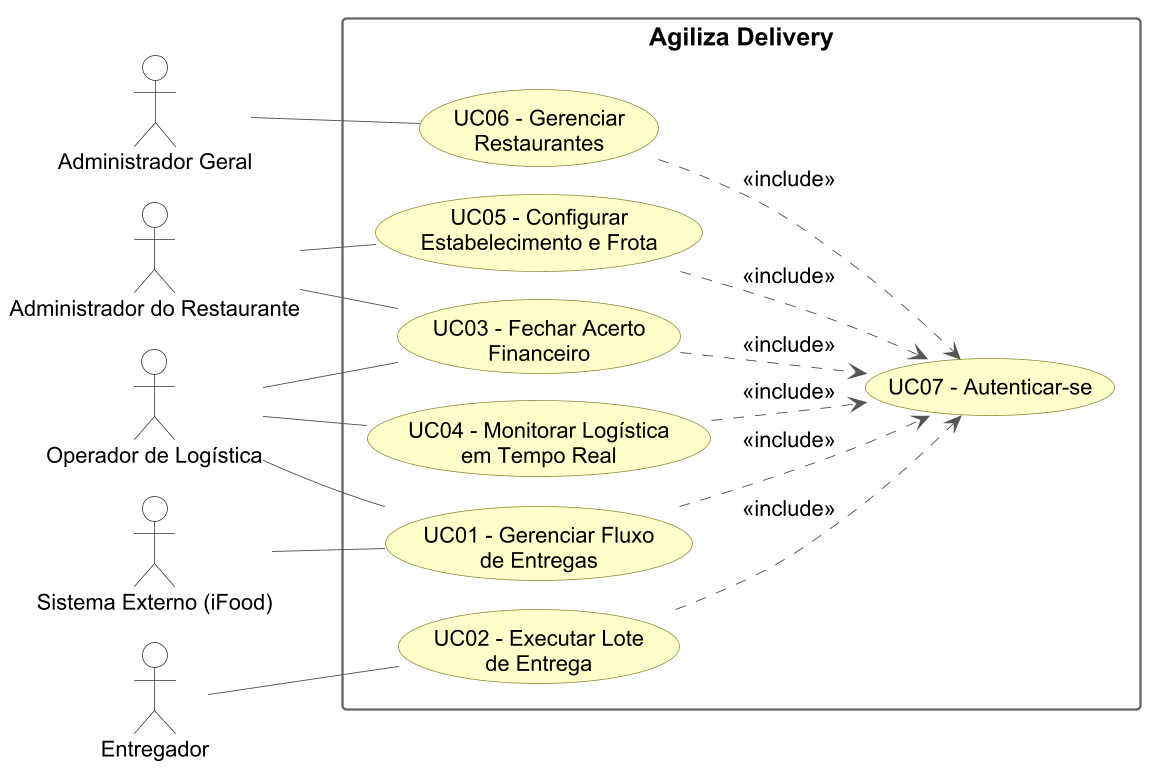
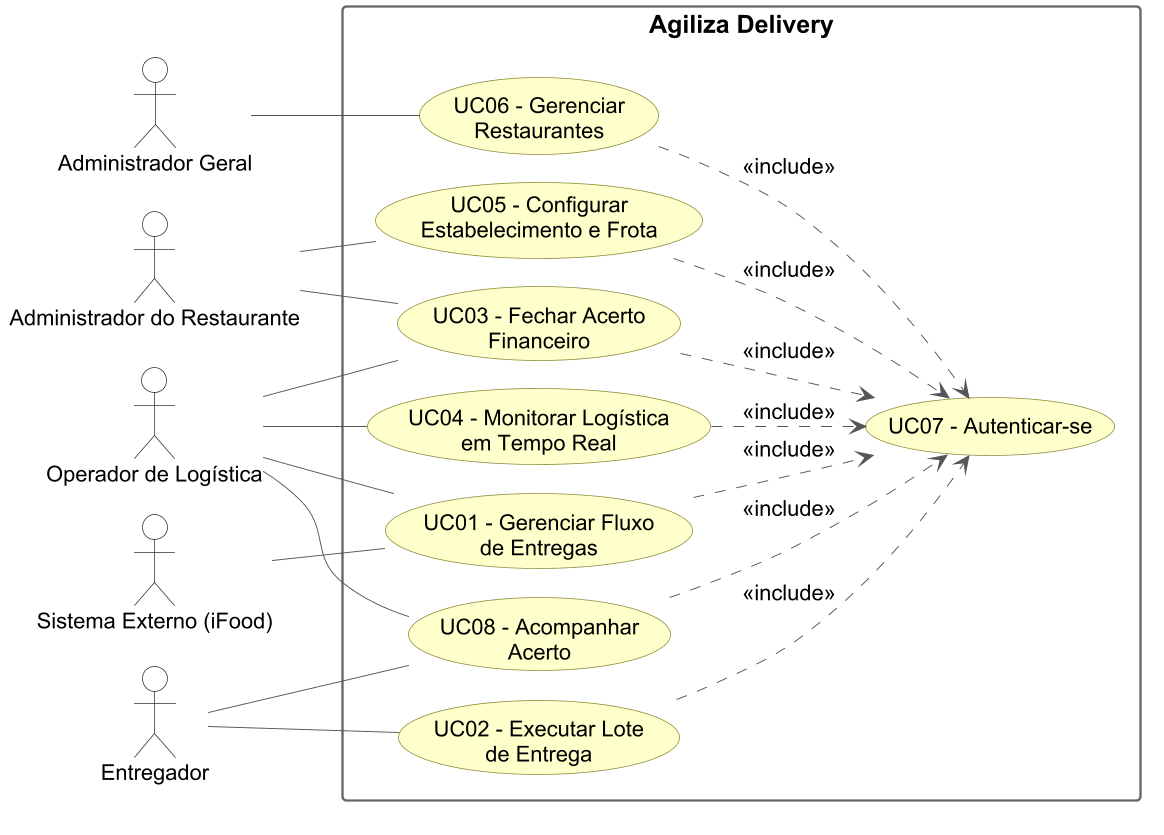
docs: valor fora de area e UC08 - Acompanhar Acerto
Duas mudancas no acerto.

1. Entrega fora do raio de entrega

Distancia sem faixa correspondente travava a entrega em revisao e a
tirava do calculo. ESTABELECIMENTO ganha valor_repasse_fora_de_area,
aplicado nesses casos com faixa_preco_id nulo, e a entrega segue o
fluxo normal. Entregas distantes sao parte da operacao, nao uma
excecao a resolver manualmente.

2. UC08 - Acompanhar Acerto

O entregador passa a ver pelo aplicativo as entregas do periodo e o
quanto vai receber por cada uma, podendo contestar um valor com que
discorde. A entrega vai para revisao com motivo CONTESTACAO_ENTREGADOR
e sai do calculo ate a analise do operador. So e possivel contestar
enquanto o caixa estiver aberto.

- UC08 descrito, com HU14, e acrescentado a tabela de casos de uso,
  a matriz de rastreabilidade e ao diagrama PlantUML
- MotivoRevisao troca SEM_FAIXA por CONTESTACAO_ENTREGADOR
- Secao 1.5.5, passos 3 e 8, reescritos
- Trilha completa da contestacao, com justificativa e resposta do
  operador, registrada como evolucao futura no escopo
- Diagramas regenerados
- Registrado como versao 2.7

diff --git a/docs/DVP_Agiliza_Delivery_latest_version.md b/docs/DVP_Agiliza_Delivery_latest_version.md
@@ -19,6 +19,7 @@ Eduardo dos Santos de Camargo
 | 2.4 | Ajustes decorrentes da implementação da camada de persistência: MOTOBOY deixa de ter FK própria para ESTABELECIMENTO, alcançado pelo USUARIO; padronização das datas de controle (`criado_em` e `atualizado_em`) em todas as entidades com PK UUID; campos de domínio fechado passam de VARCHAR com CHECK para tipo ENUM; inclusão das convenções gerais no dicionário de dados | Eduardo S.C | 02/10/2026 |
 | 2.5 | Revisão do modelo do entregador: MOTOBOY deixa de ter `nome`, que passa a existir apenas em USUARIO; remoção dos campos de consentimento LGPD, substituídos pela base legal de execução do contrato de trabalho (RNF07 reescrito, UC07 A1 removido) | Eduardo S.C | 03/10/2026 |
 | 2.6 | Introdução do **CAIXA**: o limite para correções passa a ser o fechamento do expediente, e não o pagamento do recibo. Recibos pagos podem ser cancelados e refeitos enquanto o caixa estiver aberto; o Administrador do Restaurante pode reabrir um caixa fechado mediante justificativa (UC03 A3) | Eduardo S.C | 03/10/2026 |
+| 2.7 | Entregas fora do raio passam a usar um valor de repasse configurado na loja, em vez de travar em revisão; o entregador ganha o UC08 – Acompanhar Acerto, com contestação de valores pelo aplicativo (HU14); MotivoRevisao troca SEM_FAIXA por CONTESTACAO_ENTREGADOR | Eduardo S.C | 05/10/2026 |
 
 ---
 
@@ -120,6 +121,7 @@ O sistema é **multilocatário (multi-tenant)**: uma mesma instalação atende d
 - Aplicativo para iOS.
 - Chat interno entre operador e entregador (o MVP usa deep link para o WhatsApp).
 - Avaliação e ranqueamento de entregadores.
+- Trilha completa da contestação (entidade própria, com justificativa do entregador, resposta do operador e histórico de cada reclamação). No MVP a contestação apenas marca a entrega para revisão, e a conversa entre entregador e operador acontece fora do sistema.
 - Relatórios analíticos avançados e BI; o MVP entrega apenas o extrato e o recibo de acerto.
 - Integração com outros provedores além do iFood (a arquitetura prevê a extensão, mas somente o iFood é implementado).
 
@@ -258,6 +260,7 @@ O diagrama apresentado abaixo contempla todos os casos de uso definidos para a s
 | UC05 – Configurar Estabelecimento e Frota | Administrador do Restaurante | — |
 | UC06 – Gerenciar Restaurantes | Administrador Geral | — |
 | UC07 – Autenticar-se | Administrador Geral, Administrador do Restaurante, Operador de Logística, Entregador | — |
+| UC08 – Acompanhar Acerto | Entregador | Operador de Logística |
 
 > O UC07 é incluído (*include*) por todos os demais casos de uso, que o têm como pré-condição.
 
@@ -338,6 +341,18 @@ O diagrama apresentado abaixo contempla todos os casos de uso definidos para a s
 | **Fluxos alternativos** | **A1 – Token expirado:** a requisição é recusada e o cliente redireciona para nova autenticação. |
 | **Fluxos de exceção** | **E1 – Credenciais inválidas:** o sistema recusa com mensagem genérica, sem indicar se o erro está no e-mail ou na senha. **E2 – Estabelecimento INATIVO:** o sistema recusa e informa que o acesso da loja está suspenso (HU12). **E3 – Usuário inativo ou entregador BLOQUEADO:** o sistema recusa o acesso. **E4 – Perfil incompatível com o cliente:** um usuário ENTREGADOR não acessa o Backoffice, e os demais perfis não acessam o aplicativo. |
 | **Pós-condições** | Usuário autenticado com token válido; todas as consultas operacionais passam a ser filtradas pelo seu estabelecimento. |
+
+#### 1.4.2.8. UC08 – Acompanhar Acerto
+
+| | |
+| ----- | ----- |
+| **Ator principal** | Entregador |
+| **Atores secundários** | Operador de Logística |
+| **Pré-condições** | O entregador está autenticado e possui entregas concluídas no período. |
+| **Fluxo principal** | 1. O entregador abre a tela de acerto no aplicativo. 2. O sistema lista as entregas concluídas do período, cada uma com a distância, a faixa aplicada e o valor do repasse. 3. O sistema apresenta o total acumulado e indica o que já está consolidado em recibo. 4. O entregador acompanha o valor crescer ao longo do turno. |
+| **Fluxos alternativos** | **A1 – Contestar valor:** ao discordar do valor de uma entrega, o entregador aciona "Contestar". A entrega recebe `pendente_revisao = true` com motivo CONTESTACAO_ENTREGADOR, sai do cálculo do acerto e é sinalizada no painel do operador, que a analisa e, se procedente, ajusta o valor pelo UC03 A1. |
+| **Fluxos de exceção** | **E1 – Entrega já em revisão:** o sistema informa que a entrega já está sob análise e não registra nova contestação. **E2 – Caixa fechado:** encerrado o expediente, os valores tornam-se imutáveis e o botão de contestar fica indisponível; o entregador é orientado a procurar o operador. |
+| **Pós-condições** | Entrega marcada para revisão e fora do cálculo do acerto até a análise do operador. |
 
 ### 1.4.3. Histórias de Usuário Por Caso de Uso
 
@@ -448,6 +463,17 @@ O diagrama apresentado abaixo contempla todos os casos de uso definidos para a s
 **Regras de Negócio:** A senha é validada contra o hash BCrypt (RNF02). O token JWT carrega o perfil e o estabelecimento, e todas as consultas operacionais são filtradas por esse estabelecimento. O acesso é negado a usuários inativos, a entregadores BLOQUEADOS e a usuários de estabelecimentos INATIVOS (HU12). A mensagem de erro de credenciais é genérica.
 **Critérios de Aceite:** Dado que um operador da "Pizzaria XYZ" está autenticado, Quando ele consultar as entregas pendentes, Então o sistema exibirá apenas as entregas da "Pizzaria XYZ"; E uma tentativa de acessar por URL uma entrega de outro estabelecimento será recusada.
 
+#### 1.4.3.8. UC08 – Acompanhar Acerto
+
+| Objetivo: | Dar ao entregador visibilidade do próprio ganho durante o turno e um caminho formal para questionar valores. |
+| ----- | :---- |
+| **HISTÓRIAS DE USUÁRIOS** | |
+
+**História: HU14 – Acompanhar o acerto e contestar valores**
+**Descrição:** COMO Entregador, QUERO acompanhar pelo aplicativo as entregas que fiz e quanto vou receber por cada uma PARA conferir o acerto antes do pagamento e questionar o que estiver errado.
+**Regras de Negócio:** O entregador enxerga apenas as suas próprias entregas, do estabelecimento ao qual está vinculado. Cada linha mostra a distância, a faixa aplicada e o valor. Entregas fora do raio aparecem com o valor de fora de área. A contestação só é possível enquanto o caixa do dia estiver aberto; uma vez contestada, a entrega fica pendente de revisão e sai do total até que o operador a analise.
+**Critérios de Aceite:** Dado que o entregador concluiu uma entrega de 6 km que apareceu com o valor de uma faixa menor, Quando ele abrir a tela de acerto e tocar em "Contestar", Então a entrega é marcada para revisão, deixa de somar no total exibido e passa a ser sinalizada no painel do operador.
+
 ### 1.4.4. Máquina de Estados dos Objetos de Negócio
 
 Os status citados nas histórias de usuário são definidos formalmente abaixo. Nenhum outro valor é admitido.
@@ -481,7 +507,7 @@ Os status citados nas histórias de usuário são definidos formalmente abaixo. 
 | :---: | ----- | ----- | ----- | ----- |
 | RF01 | UC01 – Gerenciar Fluxo de Entregas | HU01, HU02, HU03 | RNF03, RNF04, RNF06, RNF13 | PEDIDO_EXTERNO, ITEM_PEDIDO, ENTREGA, LOTE_ENTREGA, FALHA_INTEGRACAO |
 | RF02 | UC02 – Executar Lote de Entrega | HU04, HU05 | RNF06, RNF09, RNF10, RNF11 | LOTE_ENTREGA, ENTREGA, ENTREGA_STATUS_HISTORICO |
-| RF03 | UC03 – Fechar Acerto Financeiro; UC05 – Configurar Estabelecimento e Frota (faixas de preço) | HU06, HU07, HU10 | RNF03 | DISTANCIA_PRECO, ENTREGA, ENTREGA_AJUSTE_VALOR, RECIBO |
+| RF03 | UC03 – Fechar Acerto Financeiro; UC05 – Configurar Estabelecimento e Frota (faixas de preço); UC08 – Acompanhar Acerto | HU06, HU07, HU10, HU14 | RNF03, RNF11 | DISTANCIA_PRECO, ENTREGA, ENTREGA_AJUSTE_VALOR, RECIBO, CAIXA |
 | RF04 | UC04 – Monitorar Logística em Tempo Real | HU08 | RNF01, RNF06, RNF07, RNF09 | MOTOBOY, ENTREGA_STATUS_HISTORICO |
 | RF05 | UC05 – Configurar Estabelecimento e Frota; UC07 – Autenticar-se | HU09, HU13 | RNF02, RNF05, RNF07 | USUARIO, MOTOBOY, CONFIGURACAO_INTEGRACAO |
 | RF06 | UC06 – Gerenciar Restaurantes | HU11, HU12 | RNF02, RNF08, RNF12 | ESTABELECIMENTO, USUARIO |
@@ -581,6 +607,7 @@ erDiagram
         decimal longitude
         varchar status
         smallint max_pedidos_por_lote
+        decimal valor_repasse_fora_de_area
         timestamp criado_em
         timestamp atualizado_em
     }
@@ -796,6 +823,7 @@ erDiagram
 | latitude, longitude | DECIMAL(10,7) | NOT NULL | Origem de todos os cálculos de distância |
 | status | ENUM (ATIVO, INATIVO) | NOT NULL | Controla o login de toda a loja (HU12) |
 | max_pedidos_por_lote | SMALLINT | NOT NULL, DEFAULT 5 | Limite parametrizável da HU02 |
+| valor_repasse_fora_de_area | DECIMAL(10,2) | | Repasse aplicado quando a distância ultrapassa a última faixa da loja, isto é, quando o cliente está fora do raio de entrega (seção 1.5.5, passo 3) |
 | criado_em, atualizado_em | TIMESTAMP | NOT NULL / NULL | Datas de controle padrão (ver nota ao final da seção) |
 
 **USUARIO** — credencial de acesso de qualquer perfil.
@@ -922,7 +950,7 @@ erDiagram
 | status | ENUM (AGUARDANDO_DESPACHO, DESPACHADA, EM_ROTA, ENTREGUE, FALHA, CANCELADA) | NOT NULL | Conforme a máquina de estados da seção 1.4.4 |
 | motivo_falha | VARCHAR(100) | | Obrigatório quando status = FALHA |
 | pendente_revisao | BOOLEAN | NOT NULL, DEFAULT false | Entrega sem coordenada válida (UC01 A1), sem distância calculada ou sem faixa correspondente (seção 1.5.5, passos 1 e 3). Bloqueia a inclusão em recibo |
-| motivo_revisao | ENUM (SEM_COORDENADA, SEM_DISTANCIA, SEM_FAIXA) | | Causa da revisão pendente |
+| motivo_revisao | ENUM (SEM_COORDENADA, SEM_DISTANCIA, CONTESTACAO_ENTREGADOR) | | Causa da revisão pendente |
 | despachada_em, saiu_para_entrega_em, finalizada_em | TIMESTAMP | | Tempos operacionais exigidos pelo RF01 |
 | criado_em, atualizado_em | TIMESTAMP | NOT NULL / NULL | Datas de controle padrão (ver nota ao final da seção) |
 
@@ -1024,12 +1052,12 @@ O repasse é apurado **por entrega**, nunca por lote. O agrupamento em lote é u
 
 1. Ao importar ou cadastrar a entrega, o sistema obtém a coordenada do cliente e consulta a API de rotas (Google Maps Platform) para obter `distancia_km`: a distância do **percurso viário** entre a coordenada da loja e a do cliente. Se o operador ajustar o pino, a distância é recalculada. Se a API estiver indisponível ou não retornar rota, a entrega recebe `pendente_revisao = true` (motivo SEM_DISTANCIA) e o operador é notificado.
 2. O sistema localiza a faixa ativa do estabelecimento em que `de_km ≤ distancia_km < ate_km` e grava `faixa_preco_id` e `valor_repasse = DISTANCIA_PRECO.valor_pago`. Esse valor é **provisório**: serve para exibição no painel e no aplicativo enquanto a entrega está em andamento.
-3. Se nenhuma faixa corresponder à distância, a entrega recebe `pendente_revisao = true` (motivo SEM_FAIXA) e o operador é notificado; o despacho é permitido, mas a entrega só pode entrar em recibo após a revisão.
+3. **Fora do raio de entrega:** se a distância ultrapassar a última faixa da loja, aplica-se `ESTABELECIMENTO.valor_repasse_fora_de_area`, com `faixa_preco_id` nulo, e a entrega segue o fluxo normalmente, sem pendência de revisão. Entregas distantes são parte da operação, não uma exceção a ser resolvida manualmente. Caso a loja não tenha esse valor configurado, a entrega é despachada e o operador é alertado para defini-lo antes do acerto.
 4. **Congelamento:** quando a entrega atinge ENTREGUE ou FALHA, o sistema reaplica a faixa **ativa naquele momento** e grava definitivamente `faixa_preco_id` e `valor_repasse`. Assim, uma alteração na tabela de preços vale para todas as entregas ainda não finalizadas, inclusive as já importadas, e nunca afeta entregas finalizadas (HU10).
 5. **Entrega cancelada:** se o cancelamento ocorrer antes da saída da loja (a partir de AGUARDANDO_DESPACHO ou DESPACHADA), a entrega recebe `valor_repasse = 0` e `faixa_preco_id` nulo, pois não houve deslocamento. Se ocorrer durante o percurso (a partir de EM_ROTA, UC02 A3), o repasse é **integral** e congelado como no passo 4, pois o entregador já se deslocou e precisa retornar à loja.
 6. **Ajuste manual:** "congelado" significa imune a mudanças na tabela de preços, não imune a correções. O operador pode ajustar `valor_repasse` com motivo obrigatório enquanto o caixa do dia estiver aberto, mesmo que a entrega já conste de um recibo pago; cada ajuste é registrado em ENTREGA_AJUSTE_VALOR (UC03 A1). Corrigir uma entrega já vinculada exige cancelar o recibo, o que a libera para novo acerto. Fechado o caixa, o valor torna-se imutável (HU07).
 7. `LOTE_ENTREGA.valor_total_repasse` é a soma do `valor_repasse` das suas entregas.
-8. `RECIBO.valor_total` é a soma do `valor_repasse` das entregas do período em estado final, sem revisão pendente e ainda não vinculadas a nenhum recibo.
+8. `RECIBO.valor_total` é a soma do `valor_repasse` das entregas do período em estado final, sem revisão pendente e ainda não vinculadas a nenhum recibo. Uma entrega contestada pelo entregador (UC08 A1) fica fora dessa soma até que o operador a analise.
 
 **Tratamento da entrega com falha:** uma entrega em FALHA gera repasse **integral** da faixa correspondente, pois o entregador percorreu o trajeto de ida e de volta. O motivo da falha é obrigatório e fica registrado para análise gerencial.
 
